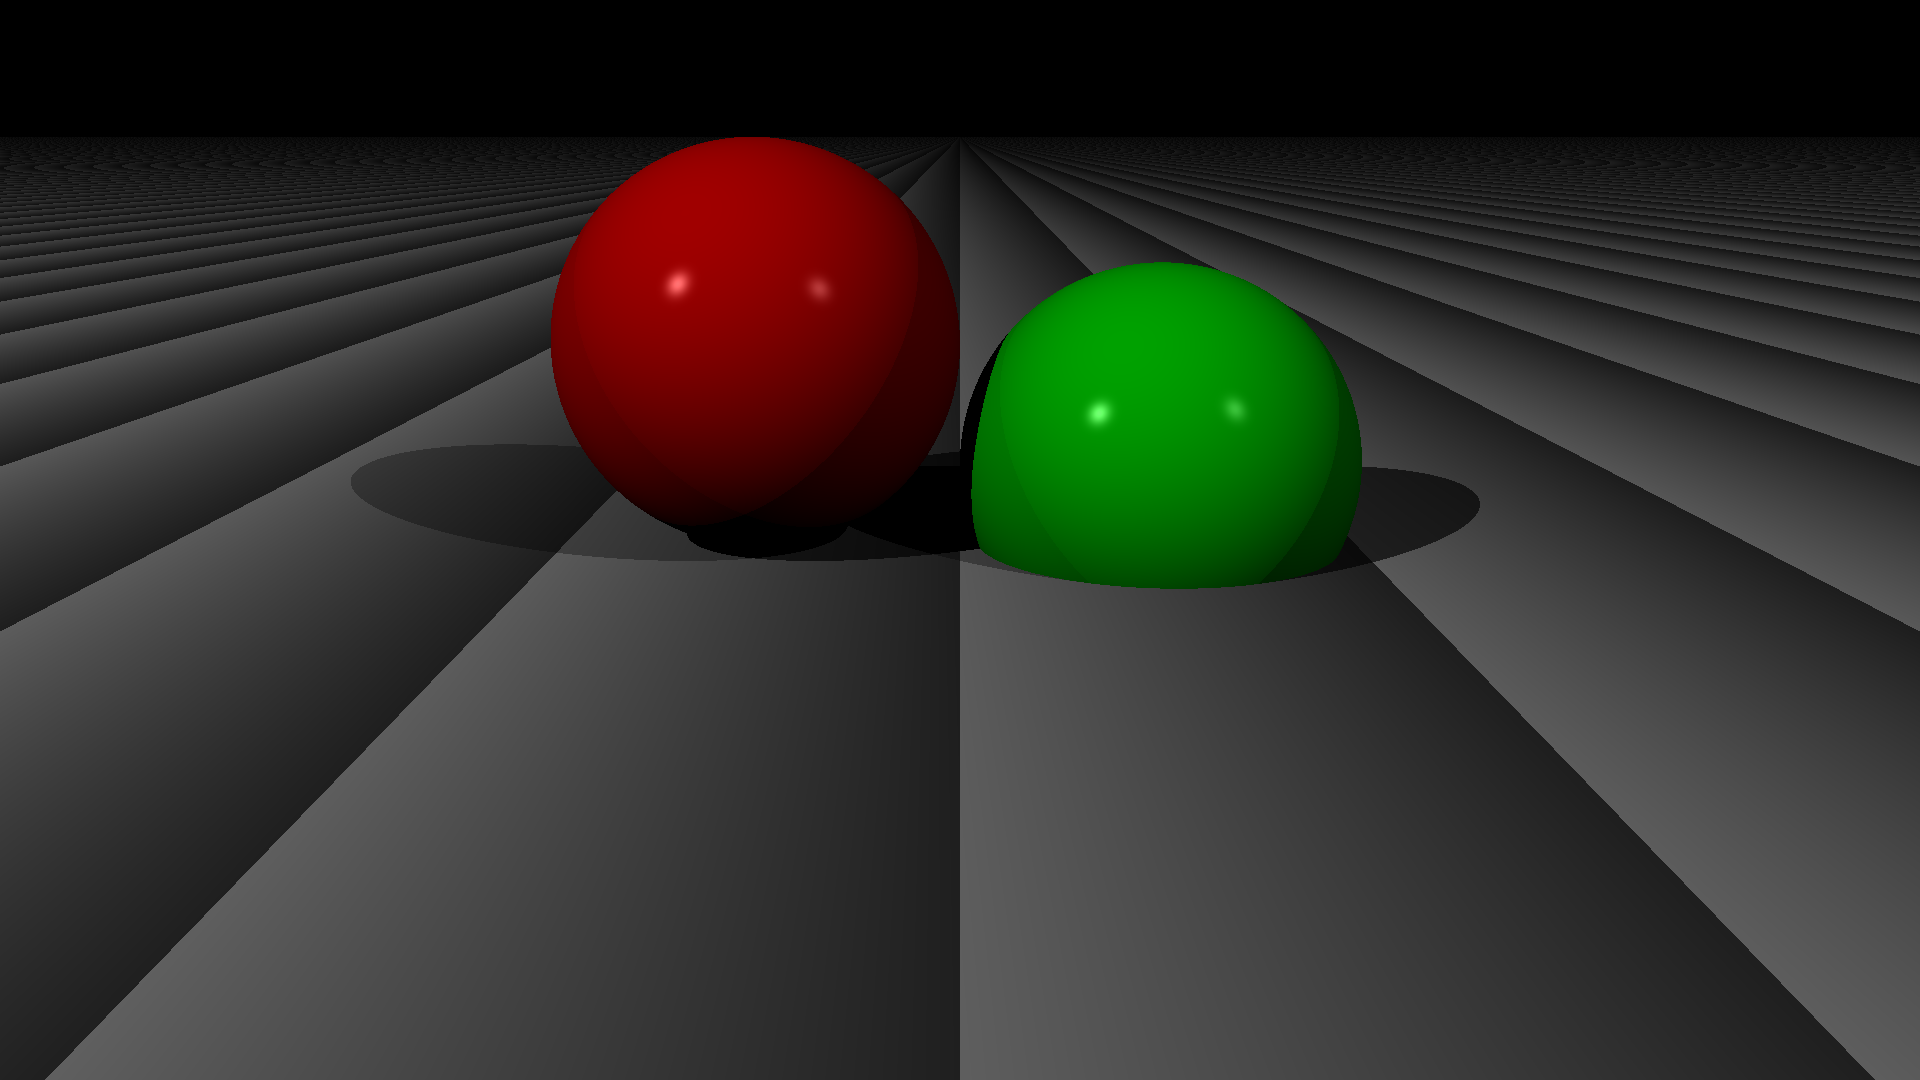
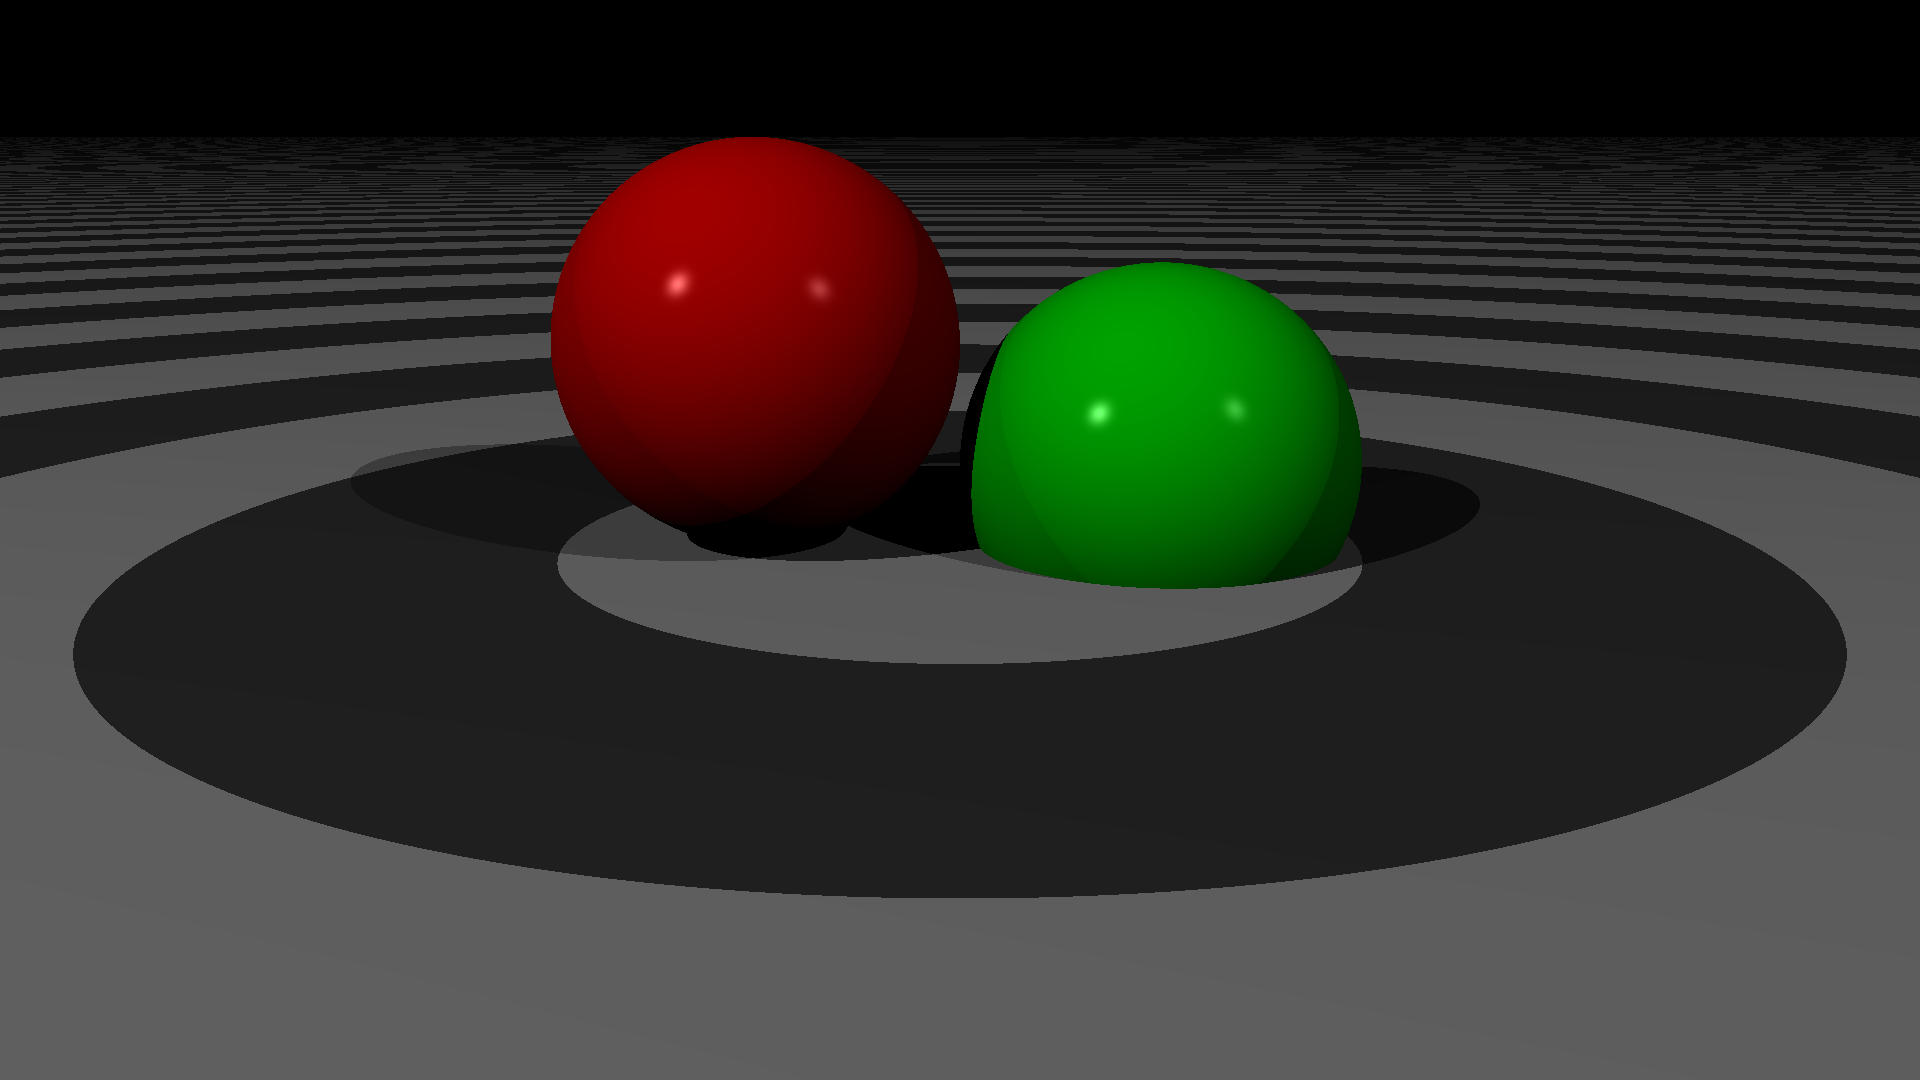
Ring pattern

diff --git a/src/main.cpp b/src/main.cpp
@@ -14,7 +14,8 @@
 
 enum PatternType {
     STRIPES,
-    GRADIENT
+    GRADIENT,
+    RING
 };
 
 struct Pattern;
@@ -126,6 +127,13 @@ struct Pattern {
         return a + distance * fraction;
     }
 
+    Color ring(Point point) {
+        auto xz = std::floor(sqrt(point.x * point.x + point.z * point.z));
+        if ((int)xz % 2 == 0)
+            return a;
+        return b;
+    }
+
     Color at(Shape *shape, Point point) {
         auto objectPoint = shape->inv * point;
         auto patternPoint = inv * objectPoint;
@@ -133,6 +141,8 @@ struct Pattern {
             return stripe(patternPoint);
         if (type == GRADIENT)
             return gradient(patternPoint);
+        if (type == RING)
+            return ring(patternPoint);
         return black;
     }
 };
@@ -143,6 +153,10 @@ Pattern stripes(Color a, Color b, Matrix tr) {
 
 Pattern gradient(Color a, Color b, Matrix tr) {
     return Pattern{a, b, tr.inverse(), GRADIENT};
+}
+
+Pattern ring(Color a, Color b, Matrix tr) {
+    return Pattern{a, b, tr.inverse(), RING};
 }
 
 std::vector<Intersection> intersectionsBuffer;
@@ -310,7 +324,7 @@ int main() {
     Material greenMaterial{green, 0.1, 0.9, 0.9, 200};
     Material grayMaterial{gray, 0.1, 0.9, 0.9, 200};
 
-    Pattern pattern = gradient(lightGray, darkGray, scale(0.1, 0.1, 0.1));
+    Pattern pattern = ring(lightGray, darkGray, scale(0.1, 0.1, 0.1));
     Material patternMaterial{black, 0.1, 0.9, 0.9, 200, &pattern};
 
     Shape sphere1 = sphere(translation(-0.5, 0.5, 0) * scale(0.5, 0.5, 0.5), redMaterial);
